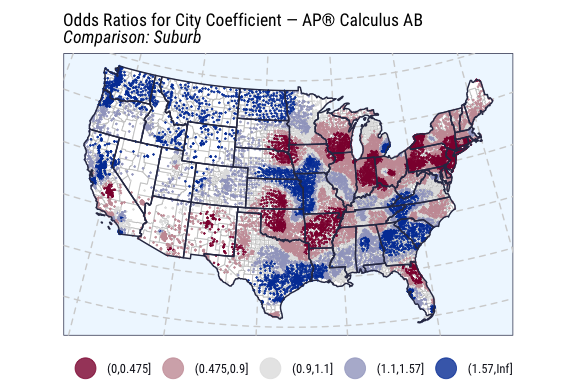
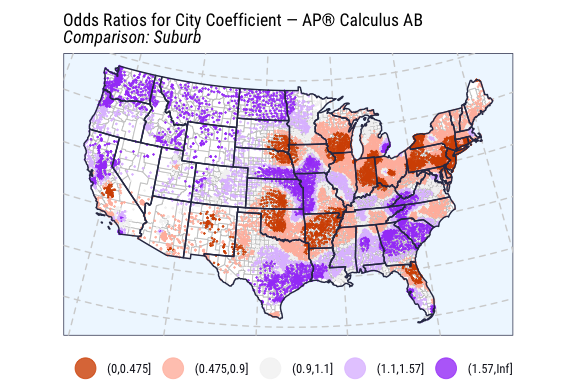
edited map colors

diff --git a/utk/utk.html b/utk/utk.html
@@ -1059,17 +1059,17 @@ Kelly L. Boles
 <div class="center quarto-layout-cell" style="flex-basis: 50.0%;justify-content: center;">
 <p><span class="fragment smaller-font"><strong>AP® Calculus AB</strong></span></p>
 <div class="r-stack">
-<p><img data-src="images/GWR_CityCoef_APCalcAB_Map.png" class="fragment" alt="Local Coefficients on City from GWR"></p>
-<p><img data-src="images/GWR_TownCoef_APCalcAB_Map.png" class="fragment" alt="Local Coefficients on Town from GWR"></p>
-<p><img data-src="images/GWR_RuralCoef_APCalcAB_Map.png" class="fragment" alt="Local Coefficients on Rural from GWR"></p>
+<p><img data-src="images/GWR_CityCoef_APCalcAB_Map.png" class="fragment" alt="Local Coefficients on City from GWR" height="370"></p>
+<p><img data-src="images/GWR_TownCoef_APCalcAB_Map.png" class="fragment" alt="Local Coefficients on Town from GWR" height="370"></p>
+<p><img data-src="images/GWR_RuralCoef_APCalcAB_Map.png" class="fragment" alt="Local Coefficients on Rural from GWR" height="370"></p>
 </div>
 </div>
 <div class="center quarto-layout-cell" style="flex-basis: 50.0%;justify-content: center;">
 <p><span class="fragment smaller-font"><strong>AP® Computer Science A</strong></span></p>
 <div class="r-stack">
-<p><img data-src="images/GWR_CityCoef_APCompSciA_Map.png" class="fragment" alt="Local Coefficients on City from GWR"></p>
-<p><img data-src="images/GWR_TownCoef_APCompSciA_Map.png" class="fragment" alt="Local Coefficients on Town from GWR"></p>
-<p><img data-src="images/GWR_RuralCoef_APCompSciA_Map.png" class="fragment" alt="Local Coefficients on Rural from GWR"></p>
+<p><img data-src="images/GWR_CityCoef_APCompSciA_Map.png" class="fragment" alt="Local Coefficients on City from GWR" height="370"></p>
+<p><img data-src="images/GWR_TownCoef_APCompSciA_Map.png" class="fragment" alt="Local Coefficients on Town from GWR" height="370"></p>
+<p><img data-src="images/GWR_RuralCoef_APCompSciA_Map.png" class="fragment" alt="Local Coefficients on Rural from GWR" height="370"></p>
 </div>
 </div>
 </div>
@@ -1118,12 +1118,12 @@ Kelly L. Boles
 <h2><em>AP® Access:</em> GWR — Results [Spatial]</h2>
 <hr>
 <div class="center">
-<p><span class="fragment purple"><strong>Locale Coefficients — Odds Ratios</strong></span></p>
+<p><span class="fragment green"><strong>Locale Coefficients — Odds Ratios</strong></span></p>
 </div>
 <div class="fragment much-smaller-font smaller-line-height">
 <ul>
-<li><span class="fragment"><span class="red-gwr"><strong>Red</strong></span> =[<em>locale</em>] schools have lower odds than suburban schools of offering course</span></li>
-<li><span class="fragment"><span class="blue-gwr"><strong>Blue</strong></span> = [<em>locale</em>] schools have higher odds than suburban schools of offering course</span></li>
+<li><span class="fragment"><span class="orange"><strong>Orange</strong></span> =[<em>locale</em>] schools have lower odds than suburban schools of offering course</span></li>
+<li><span class="fragment"><span class="purple"><strong>Purple</strong></span> = [<em>locale</em>] schools have higher odds than suburban schools of offering course</span></li>
 </ul>
 </div>
 <div class="quarto-layout-panel">
